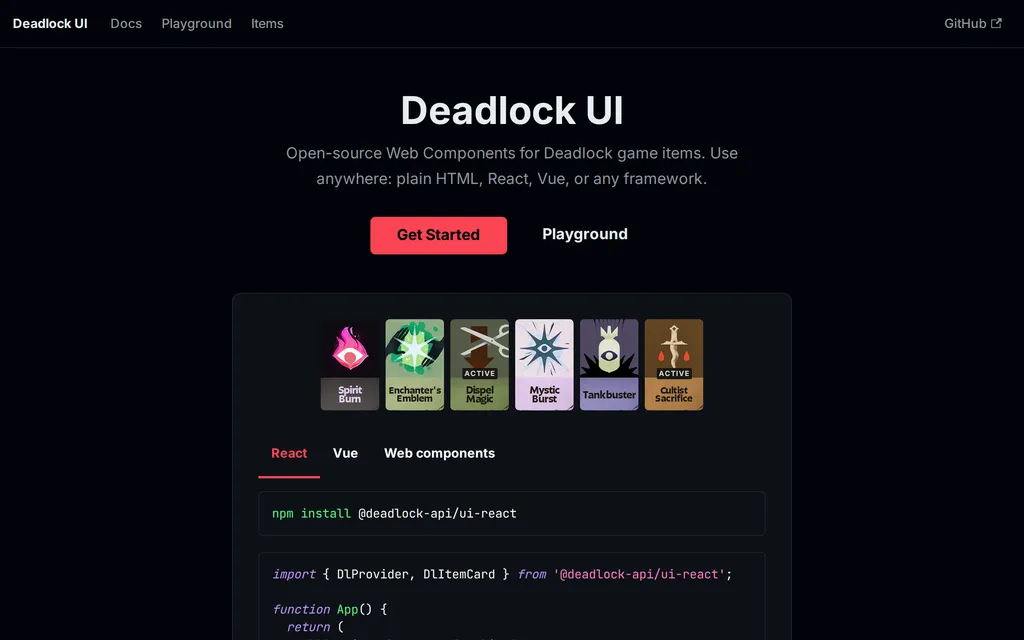
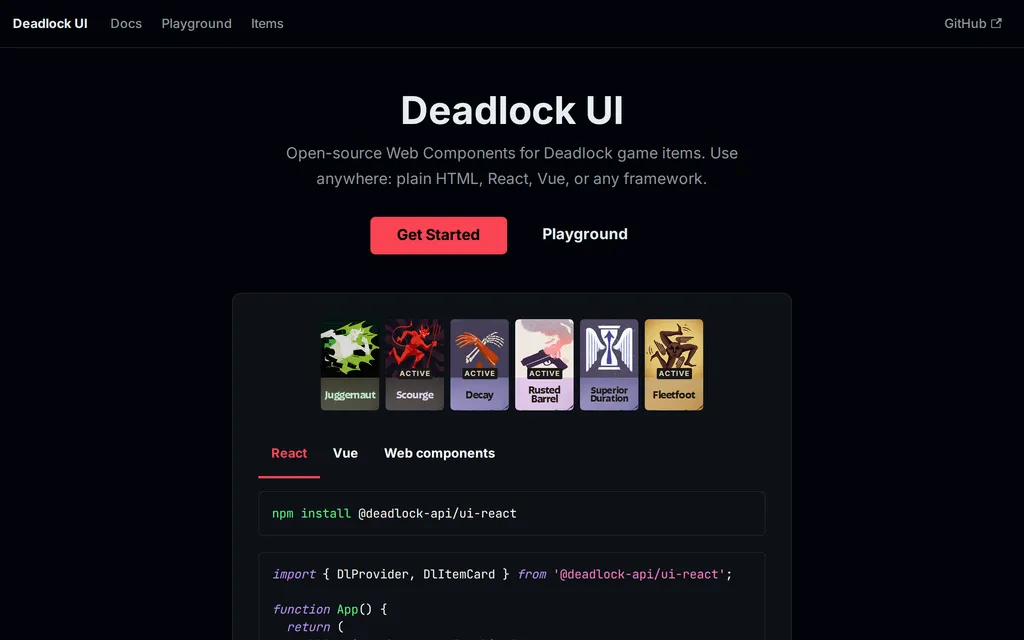
feat: redesign home hero + resume viewer, add TreinaHub project
- full-screen hero with cursor-reactive dot grid background
- animated avatar carousel cycling optimized webp variants
- global accent text selection color
- resume page as a distinct viewer mode (removed from navbar, home CTA)
- add TreinaHub project entry

Changed region(s): [[0.3125, 0.5, 0.6875, 0.6562]]

diff --git a/apps/site/src/styles/global.css b/apps/site/src/styles/global.css
@@ -35,6 +35,12 @@ html {
   scrollbar-gutter: stable;
 }
 
+/* Text selection — accent highlight across the whole site. */
+::selection {
+  background-color: var(--color-accent);
+  color: var(--color-bg);
+}
+
 body {
   @apply text-text font-sans antialiased;
   font-size: 18px;

diff --git a/apps/site/src/content/projects/treinahub.md b/apps/site/src/content/projects/treinahub.md
@@ -1,0 +1,18 @@
+---
+title: 'TreinaHub'
+description: 'Multi-tenant SaaS that lets fitness trainers manage clients, build workout plans, and ship a branded installable app to their students.'
+period:
+  start: '2026-05-01'
+tags: ['typescript', 'hono', 'astro', 'vue', 'react', 'pwa', 'prisma', 'postgresql', 'saas']
+url: 'https://treinahub.com'
+---
+
+TreinaHub is a multi-tenant SaaS for fitness trainers to manage their clients and prescribe workout plans. A single platform serves three distinct frontends: a trainer dashboard, an admin panel, and an installable student PWA, all backed by a REST API with database-level row security so every trainer only ever touches their own data.
+
+The student experience is a React PWA that installs to the home screen and works offline through a service worker. Each trainer's app is fully branded: themes are defined as typed design tokens (colors, fonts, radius) and injected at runtime, with custom domains and custom themes unlocked on higher plans. Students view their workouts, log sets, and track body measurements through bioimpedance and skinfold protocols.
+
+Authorization is enforced with ZenStack on top of Prisma, wrapping the client so the same `@@allow` rules guard every query across three roles (admin, trainer, student). Billing is tiered (Free, Basic, Pro) through Stripe, with feature gates for the assistant, forms, Google Calendar sync, load progression, and unlimited clients.
+
+Pro trainers get an AI assistant powered by an MCP server embedded directly in the API, giving the model read-only, access-controlled visibility into clients, workouts, training logs, and measurements without ever bypassing the tenant isolation rules.
+
+The stack is a pnpm + Turborepo monorepo: a Hono API, Astro + Vue dashboards, a React 19 + Vite + Tailwind student PWA, PostgreSQL, and shared TypeScript packages for types, plan limits, and themes. The entire product is built in Brazilian Portuguese for the Brazilian personal-training market.

diff --git a/apps/site/src/avatars/README.md b/apps/site/src/avatars/README.md
@@ -1,0 +1,7 @@
+# Avatar versions
+
+Drop avatar variants here as `1.webp`, `2.webp`, `3.webp`, … (`.webp`, `.png`,
+`.jpg` all work). They are picked up automatically at build time, sorted
+numerically, and cycled in the hero with a crossfade — no code changes needed.
+
+If this folder has no images, the hero falls back to `/public/avatar.jpg`.